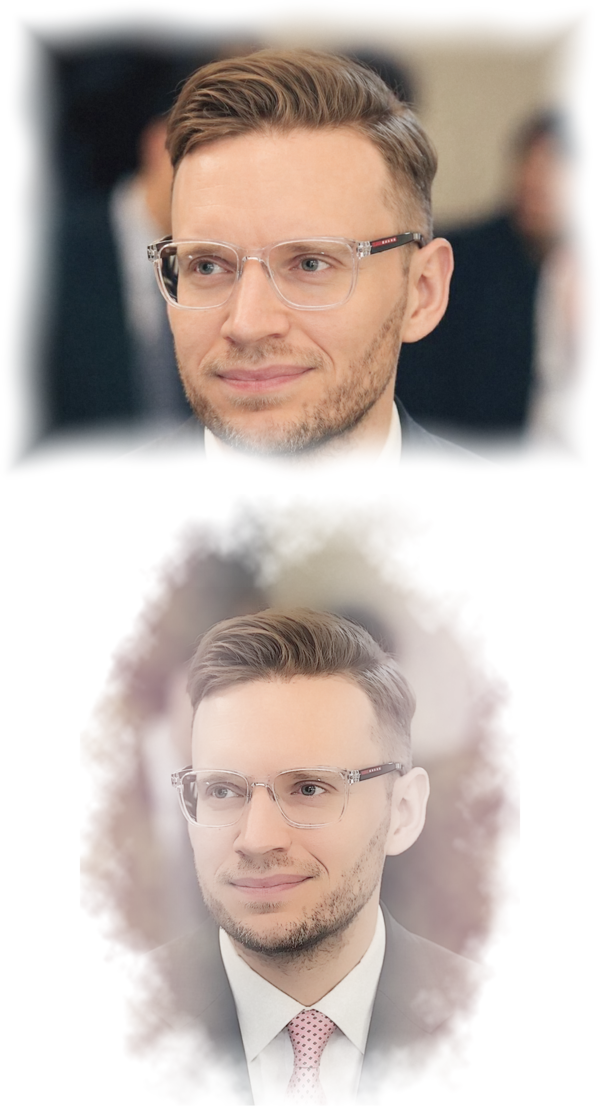
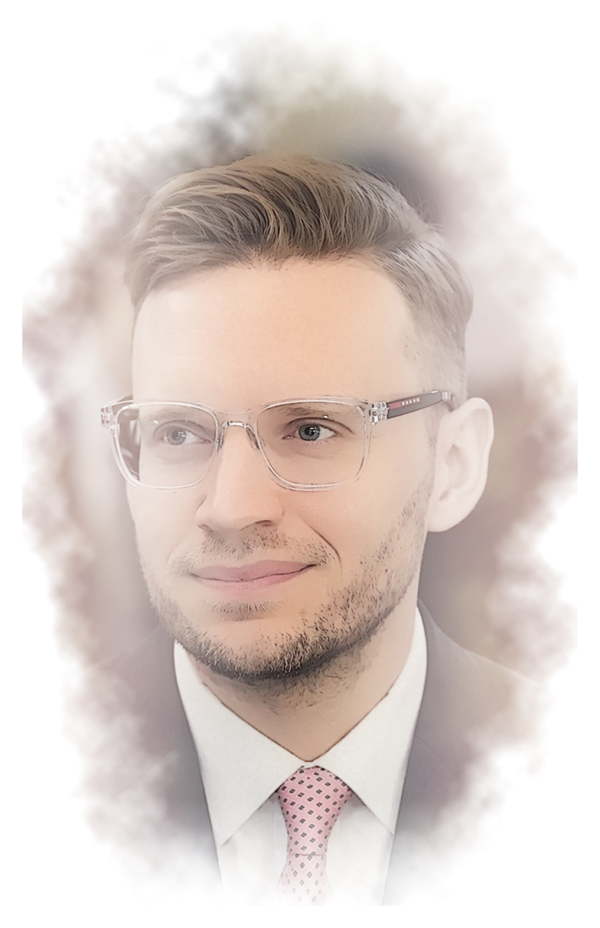
Show only the watercolour portrait, cropped closer
The sidebar showed the photograph and the watercolour one above the
other. It now shows only the watercolour, cropped to the head, collar,
and tie knot so the face is larger, and it fills the card's width.

diff --git a/_includes/sidebar.html b/_includes/sidebar.html
@@ -1,6 +1,6 @@
 <aside class="sidebar">
   <div class="author-profile">
-    <img src="{{ '/assets/images/headshot-watercolor.webp' | relative_url }}" alt="Steven Denney, shown as a photograph above a watercolour painting of the same portrait" class="author__avatar author__avatar--full" width="600" height="1120">
+    <img src="{{ '/assets/images/headshot-watercolor.webp' | relative_url }}" alt="Watercolour portrait of Steven Denney" class="author__avatar author__avatar--full" width="600" height="928">
     <h1 class="author__name">Steven Denney</h1>
     <p class="author__title">Assistant Professor<br>Leiden University</p>
 

diff --git a/_includes/head.html b/_includes/head.html
@@ -8,6 +8,6 @@
 <link rel="preconnect" href="https://fonts.gstatic.com" crossorigin>
 <link href="https://fonts.googleapis.com/css2?family=Source+Sans+3:wght@400;500;600;700&family=Source+Serif+4:opsz,wght@8..60,400;8..60,500;8..60,600;8..60,700&display=swap" rel="stylesheet">
 
-<link rel="stylesheet" href="{{ '/assets/css/style.css?v=20260924d' | relative_url }}">
+<link rel="stylesheet" href="{{ '/assets/css/style.css?v=20260924e' | relative_url }}">
 
 <link rel="icon" type="image/svg+xml" href="{{ '/assets/images/favicon.svg' | relative_url }}">

diff --git a/assets/css/style.css b/assets/css/style.css
@@ -382,6 +382,7 @@ hr {
 
 /* A tall composition shown whole instead of cropped to 4:5. */
 .author__avatar--full {
+  max-width: 100%;
   height: auto;
   aspect-ratio: auto;
   border-radius: 0;
